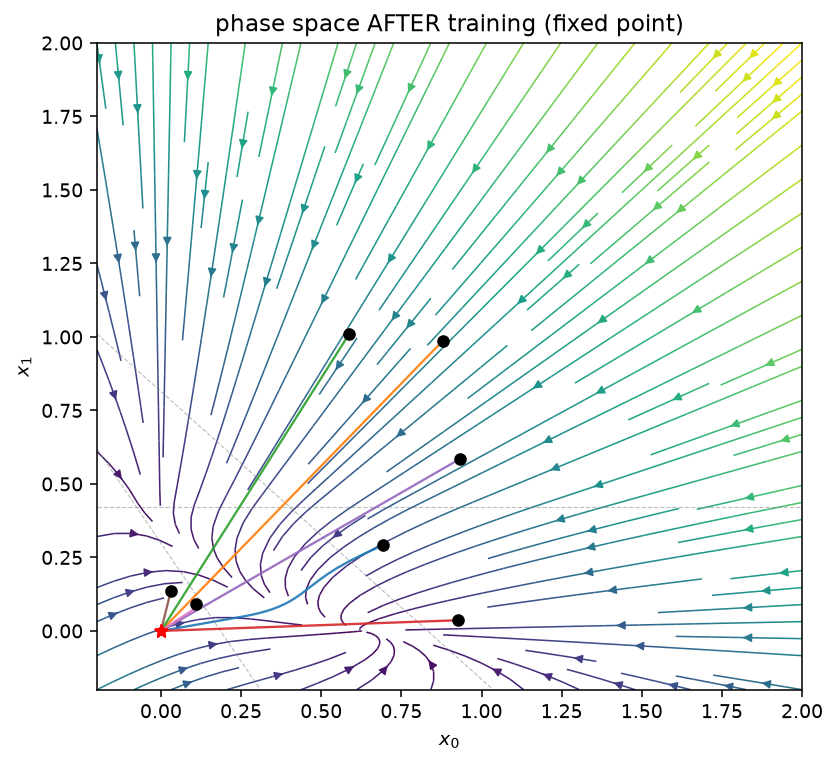
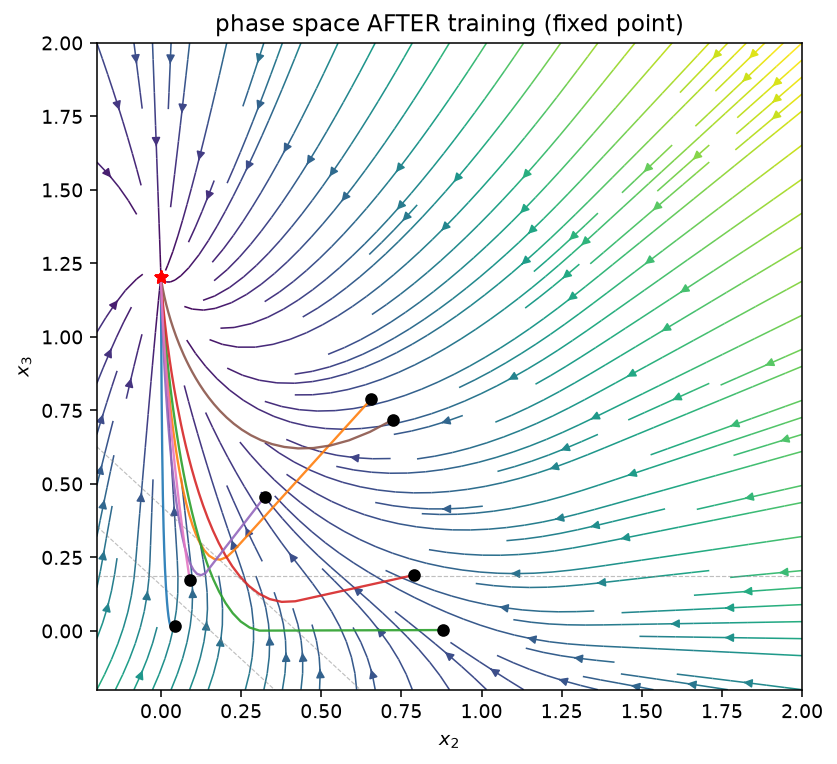
7/2 added init for asymm starts, topology analysis, PCA viz

Changed region(s): [[0.0932, 0.0602, 0.963, 0.9031], [0.6523, 0.1204, 0.6834, 0.1505]]

diff --git a/examples/n_cycle.py b/examples/n_cycle.py
@@ -7,6 +7,7 @@ from pathlib import Path
 from oscillon.topology import (
     BlockSoftSpec, init_block_params_from_adjacency,
     make_block_param_to_model, extract_block_adjacency, block_gate_matrix,
+    init_params_asymmetric
 )
 from oscillon.graph import MotifSpec, NetworkSpec, plot_network_graph
 from oscillon.model import train
@@ -14,7 +15,7 @@ from oscillon.dynamics import simulate
 from oscillon.readout import apply_readout
 
 # ----------------------------------------------------------------------
-N = 6                      # <-- number of nodes; change this to scale
+N = 5                      # <-- number of nodes; change this to scale
 dt, n_steps, burn_in = 0.1, 2000, 200
 theta_init = 0.5           # livelier warm start than the 3-cycle default (see notes)
 # ----------------------------------------------------------------------
@@ -56,10 +57,13 @@ spec = BlockSoftSpec(
 )
 
 # --- warm start from the discrete N-cycle ---
-cycle = NetworkSpec([MotifSpec.cyclic(N)])
+cycle = NetworkSpec([MotifSpec.sparse(N)])
 A_seed = cycle.to_torch_adjacency().numpy()
 key, sub = jax.random.split(key)
-params0 = init_block_params_from_adjacency(spec, sub, A_seed)
+
+# params0 = init_block_params_from_adjacency(spec, sub, A_seed)
+params0 = init_params_asymmetric(spec, sub, z_std=2.0)
+
 x0 = jnp.full((N,), 0.1)
 
 # --- measure the warm-start cycle period, build target to match ---
@@ -97,8 +101,8 @@ targets = make_targets(N, t, period)
 result = train(
     spec, params0, x0, targets, key,
     dt=dt, n_steps=n_steps, burn_in=burn_in,
-    warm=dict(n_iters=900, pop=128, sigma=0.1, lr=0.05),
-    cryst=dict(n_iters=500, pop=128, sigma=0.05, lr=0.03),
+    warm=dict(n_iters=9000, pop=512, sigma=2, lr=0.05),
+    cryst=dict(n_iters=5000, pop=512, sigma=1, lr=0.03),
 )
 print("final reward:", result.history[-1])
 
@@ -141,16 +145,141 @@ G = block_gate_matrix(spec, result.params)
 plot_network_graph(G, theta=np.asarray(result.theta),
                    save_path=str(output_dir / f"learned_graph_N{N}.png"))
 
+from phase_grid import plot_phase_grid
 from phase_portrait import plot_phase_portrait
+
+W0, th0 = p2m(params0)
 
 if N == 3:
     # 3-cycle, view neurons 0 and 1 directly, several initial conditions
     x0s = [np.array([0.1, 0.0, 0.0]), np.array([0.5, 0.5, 0.0]), np.array([1.0, 0.2, 0.6])]
-    plot_phase_portrait(result.W, result.theta, dims=(0, 1), x0s=x0s,
-                        title="3-cycle phase portrait", save_path="images/phase_portraits/3-cycle_phase.png")
+
+    before_3 = plot_phase_portrait(W0, th0, dims=("pca", np.asarray(xs)), x0s=x0s,
+                        title="3-cycle phase portrait (before)", save_path="images/phase_portraits/3-cycle_phase_before.png")
+
+    after_3 = plot_phase_portrait(result.W, result.theta, dims=("pca", np.asarray(xs)), x0s=x0s,
+                        title="3-cycle phase portrait (after)", save_path="images/phase_portraits/3-cycle_phase_after.png")
+
+
+
+    before_3_grid = plot_phase_grid(W0, th0, x0s=x0s,
+                        title="3-cycle phase portrait (before)", save_path="images/phase_portraits/3-cycle_grid_before.png")
+
+    after_3_grid = plot_phase_grid(result.W, result.theta, x0s=x0s,
+                        title="3-cycle phase portrait (after)", save_path="images/phase_portraits/3-cycle_grid_after.png")
 
 else:
     # any N: project onto the PCA plane of the learned limit cycle
     xs = simulate(result.W, result.theta, x0, dt=dt, n_steps=n_steps)[burn_in:]
-    plot_phase_portrait(result.W, result.theta, dims=("pca", np.asarray(xs)), x0s=[x0],
-                        title=f"N={N} limit cycle (PCA projection)", save_path=f"images/phase_portraits/{N}-cycle_phase.png")
+
+    before_n = plot_phase_portrait(W0, th0, dims=("pca", np.asarray(xs)), x0s=[x0],
+                        title=f"N={N} limit cycle (PCA projection)", save_path=f"images/phase_portraits/{N}-cycle_phase_before.png")
+
+    after_n = plot_phase_portrait(result.W, result.theta, dims=("pca", np.asarray(xs)), x0s=[x0],
+                        title=f"N={N} limit cycle (PCA projection)", save_path=f"images/phase_portraits/{N}-cycle_phase_after.png")
+                        
+    before_n_grid = plot_phase_grid(W0, th0, x0s=[x0],
+                        title=f"N={N} limit cycle (PCA projection)", save_path=f"images/phase_portraits/{N}-cycle_grid_before.png")
+
+    after_n_grid = plot_phase_grid(result.W, result.theta, x0s=[x0],
+                        title=f"N={N} limit cycle (PCA projection)", save_path=f"images/phase_portraits/{N}-cycle_grid_after.png")
+
+
+# ======================================================================
+#  DISCOVERY SWEEP: can ES find a limit cycle from empty asymmetric init?
+# ======================================================================
+from oscillon.topology import init_params_asymmetric, extract_block_adjacency
+from topology_analysis import analyze_interior_fixed_point
+
+def cycle_emerged(W_t, theta_t, x0, dt, n_steps, burn_in, min_amp=0.05):
+    """Judge whether the TRAINED network oscillates. Independent of target period.
+    Criteria: sustained activity (tail variance) AND a detectable period."""
+    xs = np.asarray(simulate(W_t, theta_t, x0, dt=dt, n_steps=n_steps))[burn_in:]
+    tail = xs[-int(0.4 * len(xs)):]
+    amp = float(tail.std(0).max())          # is anything still moving?
+    per = measure_period(xs, dt)            # is it periodic?
+    return (amp > min_amp and per is not None), amp, per
+
+
+def discovered_cycle_graph(A_learned, N):
+    """Does the learned adjacency contain a directed N-cycle (0->1->...->0
+    or any rotation)? Checks each node has exactly the cyclic in/out structure."""
+    canonical = MotifSpec.cyclic(N).adjacency
+    # accept any rotation of the canonical cycle
+    for shift in range(N):
+        rolled = np.roll(np.roll(canonical, shift, axis=0), shift, axis=1)
+        if np.array_equal(A_learned, rolled):
+            return True
+    return False
+
+def contains_directed_cycle(A, N):
+    """Does the adjacency contain a Hamiltonian directed cycle (visits all N,
+    returns to start)? Looser than exact-match: allows extra edges."""
+    import itertools
+    # A[i,j] = edge j->i. Check if some cyclic permutation of nodes is all-connected.
+    for perm in itertools.permutations(range(1, N)):
+        order = (0,) + perm
+        if all(A[order[(k+1) % N], order[k]] for k in range(N)):
+            return True
+    return False
+
+def run_sweep(n_seeds=20, z_std=2.0):
+    # fixed target: build once at a reference period so every seed faces
+    # the SAME problem (success = did a cycle emerge, not did it hit a period)
+    ref_period = 2.0 * np.pi
+    n_steps_sweep = int(burn_in + 8 * (ref_period / dt))
+    t_sweep = jnp.arange(n_steps_sweep) * dt
+    targets_sweep = make_targets(N, t_sweep, ref_period)
+
+    results = []
+    for seed in range(n_seeds):
+        for z_std in [1.0, 2.0, 3.0]:
+            key_s = jax.random.PRNGKey(1000 + seed)
+            key_s, sub_s = jax.random.split(key_s)
+            params0_s = init_params_asymmetric(spec, sub_s, z_std=z_std)
+
+            res = train(
+                spec, params0_s, x0, targets_sweep, key_s,
+                dt=dt, n_steps=n_steps_sweep, burn_in=burn_in,
+                warm=dict(n_iters=4500, pop=256, sigma=2, lr=0.05),
+                cryst=dict(n_iters=2500, pop=256, sigma=1, lr=0.03),
+            )
+
+            emerged, amp, per = cycle_emerged(
+                res.W, res.theta, x0, dt, n_steps_sweep, burn_in)
+            A_l = extract_block_adjacency(spec, res.params)
+            is_cycle_graph = discovered_cycle_graph(A_l, N)
+            hamiltonian = contains_directed_cycle(A_l, N)
+            fp = analyze_interior_fixed_point(res.W, res.theta)
+
+            results.append({
+                "seed": seed, "z_std": z_std, "emerged": emerged, "amp": amp, "period": per,
+                "cycle_topology": is_cycle_graph,
+                "hamiltonian_cycle": hamiltonian,
+                "fp_unstable": not fp["stable"],          # want True for a real cycle
+                "max_real_eig": fp["max_real_eig"],
+                "final_reward": res.history[-1],
+            })
+            print(f"seed {seed:2d}: z_std={z_std:.2f} cycle={emerged!s:5} "
+                f"topo={is_cycle_graph!s:5} fp_unstable={not fp['stable']!s:5} "
+                f"hamiltonian={hamiltonian!s:5} "
+                f"amp={amp:.3f} period={per} eig={fp['max_real_eig']:+.3f}")
+
+    n = len(results)
+    n_emerged = sum(r["emerged"] for r in results)
+    n_topo = sum(r["cycle_topology"] for r in results)
+    n_both = sum(r["emerged"] and r["cycle_topology"] for r in results)
+    n_hamiltonian = sum(r["hamiltonian_cycle"] for r in results)
+
+    print("\n" + "=" * 60)
+    print(f"DISCOVERY SWEEP  (N={N}, {n_seeds} seeds, z_std={z_std})")
+    print(f"  oscillation emerged:      {n_emerged}/{n}  ({100*n_emerged/n:.0f}%)")
+    print(f"  recovered cycle topology: {n_topo}/{n}  ({100*n_topo/n:.0f}%)")
+    print(f"  both (full discovery):    {n_both}/{n}  ({100*n_both/n:.0f}%)")
+    print(f"  hamiltonian cycle:        {n_hamiltonian}/{n}  ({100*n_hamiltonian/n:.0f}%)")
+    print("=" * 60)
+    return results
+
+
+if __name__ == "__main__" or True:   # set False to skip when running main script
+    sweep_results = run_sweep(n_seeds=20, z_std=2.0)

diff --git a/examples/topology_analysis.py b/examples/topology_analysis.py
@@ -1,0 +1,61 @@
+"""Analytical fixed-point and stability analysis for gCTLNs."""
+from __future__ import annotations
+import numpy as np
+
+
+def solve_fixed_point(W, theta, active):
+    """Closed-form fixed point on a given active set (support).
+    On the active set the relu is identity: (I - W_σσ) x_σ = θ_σ.
+    active: index array of neurons assumed to have x*_i > 0."""
+    W, theta = np.asarray(W), np.asarray(theta)
+    x = np.zeros(theta.shape[0])
+    if len(active) == 0:
+        return x
+    Wss = W[np.ix_(active, active)]
+    x[active] = np.linalg.solve(np.eye(len(active)) - Wss, theta[active])
+    return x
+
+
+def check_fixed_point(W, theta, x_star, tol=1e-6):
+    """Verify x* is a genuine fixed point: dx/dt = -x + relu(Wx+theta) ≈ 0,
+    AND the active-set sign conditions are self-consistent."""
+    W, theta = np.asarray(W), np.asarray(theta)
+    drive = W @ x_star + theta
+    dxdt = -x_star + np.maximum(drive, 0.0)
+    residual = np.linalg.norm(dxdt)
+    # sign consistency: active neurons have x*>0, inactive have drive<=0
+    active = x_star > tol
+    consistent = bool(np.all(x_star[active] > 0) and np.all(drive[~active] <= tol))
+    return residual, consistent
+
+
+def local_stability(W, active):
+    """Eigenvalues of the local Jacobian (-I + W_σσ) on the active region.
+    Fixed point is stable iff all Re(eig) < 0, i.e. all Re(eig(W_σσ)) < 1.
+    Returns (eigenvalues_of_Wss, is_stable)."""
+    W = np.asarray(W)
+    if len(active) == 0:
+        return np.array([]), True
+    Wss = W[np.ix_(active, active)]
+    eigs = np.linalg.eigvals(Wss)
+    is_stable = bool(np.all(eigs.real < 1.0))
+    return eigs, is_stable
+
+
+def analyze_interior_fixed_point(W, theta):
+    """Full analysis assuming ALL neurons active (the interior fixed point
+    a limit cycle typically surrounds). Returns a dict."""
+    W, theta = np.asarray(W), np.asarray(theta)
+    n = W.shape[0]
+    active = np.arange(n)
+    x_star = solve_fixed_point(W, theta, active)
+    residual, consistent = check_fixed_point(W, theta, x_star)
+    eigs, stable = local_stability(W, active)
+    return {
+        "x_star": x_star,
+        "residual": residual,
+        "sign_consistent": consistent,
+        "eigs_Wss": eigs,
+        "max_real_eig": float(eigs.real.max()) if len(eigs) else float("nan"),
+        "stable": stable,
+    }

diff --git a/examples/fixed_point_grid.py b/examples/fixed_point_grid.py
@@ -115,14 +115,14 @@ x0s = [rng.uniform(0, 1.2, size=N) for _ in range(6)] + [np.asarray(x0)]
 
 # BEFORE: warm-start dynamics
 W0, th0 = p2m(params0)
-plot_phase_portrait(W0, th0, dims=(2, 3), x0s=x0s,
+plot_phase_grid(W0, th0, x0s=x0s,
                     dt=dt, n_steps=n_steps,
                     title="phase space BEFORE training (warm start)",
-                    save_path=str(out / "fp_phase_before.png"))
+                    save_path=str(out / "fp_grid_before.png"))
 
 # AFTER: trained dynamics converging to x*
-fig_after = plot_phase_portrait(W_star, theta_star, dims=(2, 3), x0s=x0s,
+fig_after = plot_phase_grid(W_star, theta_star, x0s=x0s,
                                 dt=dt, n_steps=n_steps,
                                 title="phase space AFTER training (fixed point)",
-                                save_path=str(out / "fp_phase_after.png"))
+                                save_path=str(out / "fp_grid_after.png"))
 print("saved phase portraits")
